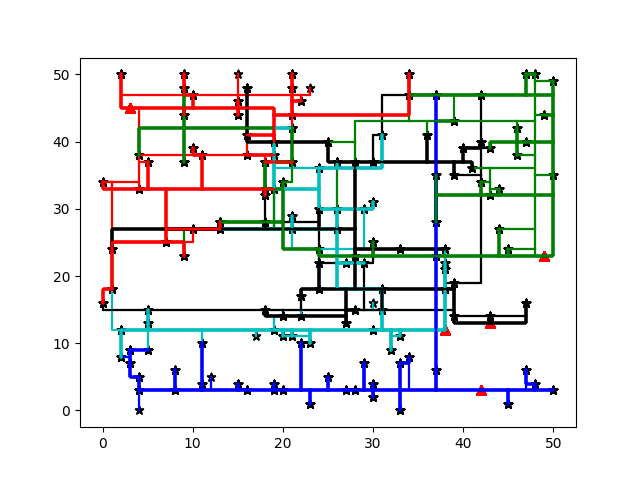
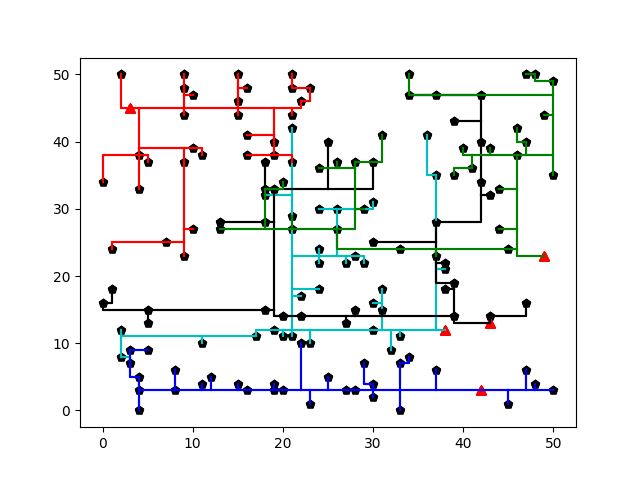
ok

Changed region(s): [[0.1562, 0.125, 0.875, 0.8438], [0.8125, 0.75, 0.8438, 0.8125], [0.7812, 0.8125, 0.8125, 0.8438]]

diff --git a/algorithms/helper.py b/algorithms/helper.py
@@ -22,25 +22,31 @@ def hillclimber(batteries, houses):
                     if logic_swap(curr_battery, curr_house, next_battery, next_house) == True:
 
                         if output_swap(curr_battery, curr_house, next_battery, next_house) == True:
-                            # STAP 1:
-                            if curr_house in curr_battery.houses_to_battery:
-                            # remove current house van current battery
-                                curr_battery.remove_house(curr_house)
-                                curr_house.deconnect_to_battery(curr_battery)
 
-                            # connect next house aan current battery
-                            curr_battery.connect_house(next_house)
-                            next_house.connect_to_battery(curr_battery)
+                            run_swap(curr_battery, curr_house, next_battery, next_house)
 
-                            # STAP 2:
-                            # remove next house van next battery
-                            next_battery.remove_house(next_house)
-                            next_house.deconnect_to_battery(next_battery)
+def run_swap(curr_battery, curr_house, next_battery, next_house):
+    """
+    Performs swap
+    """
 
-                            # connect current house aan next battery
-                            next_battery.connect_house(curr_house)
-                            curr_house.connect_to_battery(next_battery)
-                                                        
+    if curr_house in curr_battery.houses_to_battery:
+    # remove current house van current battery
+        curr_battery.remove_house(curr_house)
+        curr_house.deconnect_to_battery(curr_battery)
+
+    # connect next house aan current battery
+    curr_battery.connect_house(next_house)
+    next_house.connect_to_battery(curr_battery)
+
+    # remove next house van next battery
+    next_battery.remove_house(next_house)
+    next_house.deconnect_to_battery(next_battery)
+
+    # connect current house aan next battery
+    next_battery.connect_house(curr_house)
+    curr_house.connect_to_battery(next_battery)                              
+                                
 def output_swap(curr_battery, curr_house, next_battery, next_house):
     """
     Check to see if swap is possible based on house output and capacity of battery

diff --git a/main.py b/main.py
@@ -24,10 +24,7 @@ else:
         plot_choice = input("Do you like to see the visualization and output? ,Y/N: ")
         if plot_choice == 'Y' or 'y' or 'yes' or 'Yes':
             algorithms.Random.plot_random_algorithm()
-            algorithms.Random.run_rand_output()
-        else:
-            print('Okay ¯\_( ͡❛ ͜ʖ ͡❛)_/¯ ') 
-            exit()       
+            algorithms.Random.run_rand_output()      
 
             multiple_choice = input("Would you like to run this algorithm multiple times to get the optimal result? Y/N ")
             if multiple_choice == 'Y' or 'y' or 'yes' or 'Yes':
@@ -45,9 +42,6 @@ else:
         if plot_choice == 'Y' or 'y' or 'yes' or 'Yes':
             algorithms.Hillclimber.plot_first_algorithm()
             algorithms.Hillclimber.run_output()
-        else:
-            print('Okay ¯\_( ͡❛ ͜ʖ ͡❛)_/¯ ') 
-            exit()   
 
             multiple_choice = input("Would you like to run this algorithm multiple times to get the optimal result? Y/N ")
             if multiple_choice == 'Y' or 'y' or 'yes' or 'Yes':
@@ -64,10 +58,7 @@ else:
         if plot_choice == 'Y' or 'y' or 'Yes' or 'yes':
             algorithms.ConstraintRelaxation.constraint_relaxation()
             algorithms.ConstraintRelaxation.run_output()
-        else:
-            print('Okay ¯\_( ͡❛ ͜ʖ ͡❛)_/¯ ') 
-            exit()       
-
+            
             multiple_choice = input("Would you like to run this algorithm multiple times to get the optimal result? Y/N")
             if multiple_choice == 'Y' or 'y' or 'yes' or 'Yes':
                 algorithms.ConstraintRelaxation.run_multiple_times()

diff --git a/algorithms/ConstraintRelaxation.py b/algorithms/ConstraintRelaxation.py
@@ -163,6 +163,9 @@ def constraint_relaxation():
     
         
 def run_output():
+    """
+    Runs
+    """
 
     for curr_batt in batteries:
         print(curr_batt)
@@ -176,15 +179,19 @@ def run_output():
 def run_multiple_times():
 
     results = []
+
     curr_total_costs = 50000
+
     for i in range(1000):
         optimum_creating()
         new_total_costs = constraint_relaxation()
+
         if new_total_costs < curr_total_costs:
             curr_total_costs = new_total_costs
             results.append(curr_total_costs)
             print(curr_total_costs)
             print(results)
+
             for house in houses:
                 house.clear_house()
                 for battery in batteries:   

diff --git a/algorithms/Hillclimber.py b/algorithms/Hillclimber.py
@@ -136,6 +136,9 @@ def plot_first_algorithm():
     return fig
  
 def run_output():
+    """
+    Runs output
+    """
 
     for curr_batt in batteries:
         print(curr_batt)
@@ -147,7 +150,12 @@ def run_output():
                 print(cable_point)       
 
 def run_multiple_times():
+    """
+    Runs algorithm multiple times, only saves best results
+    """
+
     results = []
+
     curr_total_costs = 50000
     for i in range(10000):
         new_total_costs = calc_total_cost()

diff --git a/algorithms/Random.py b/algorithms/Random.py
@@ -37,7 +37,7 @@ def random_algorithm():
                 house.connect_to_battery(battery)
                 count += 1
 
-    if count == 150:
+    if count < 149:
         battery.clear(house)
         house.clear_house()
         random_algorithm()
